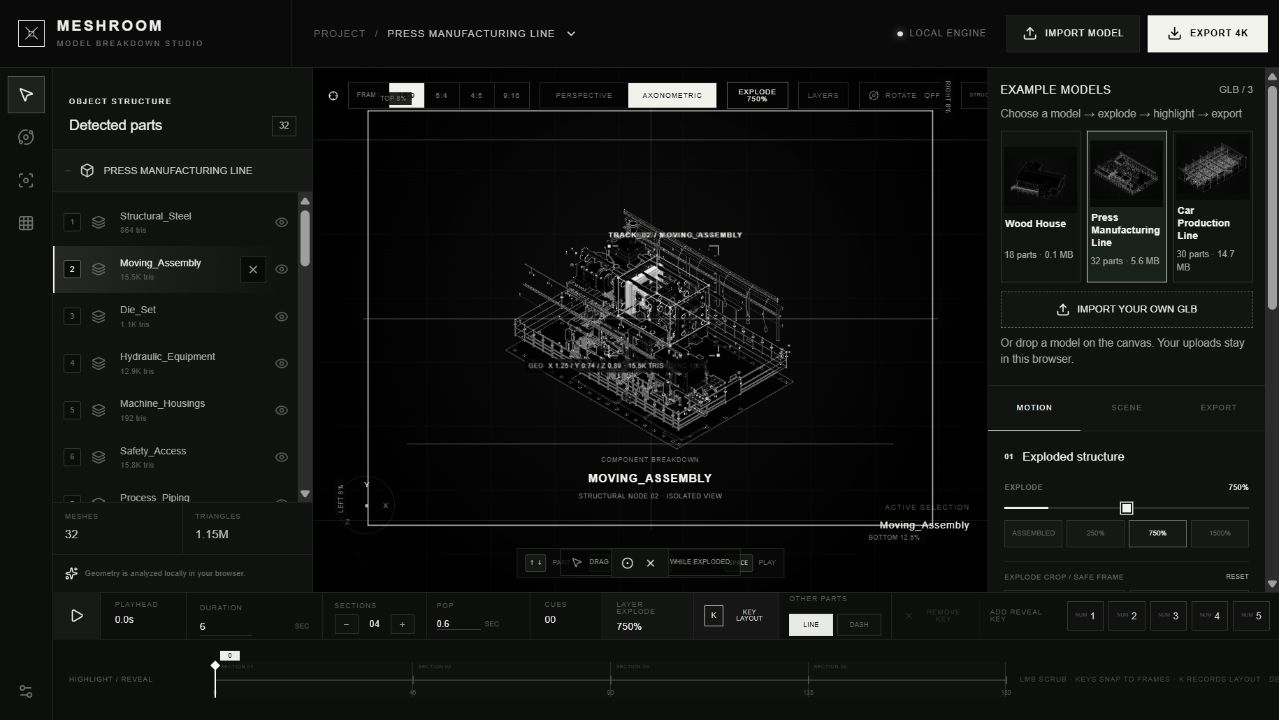
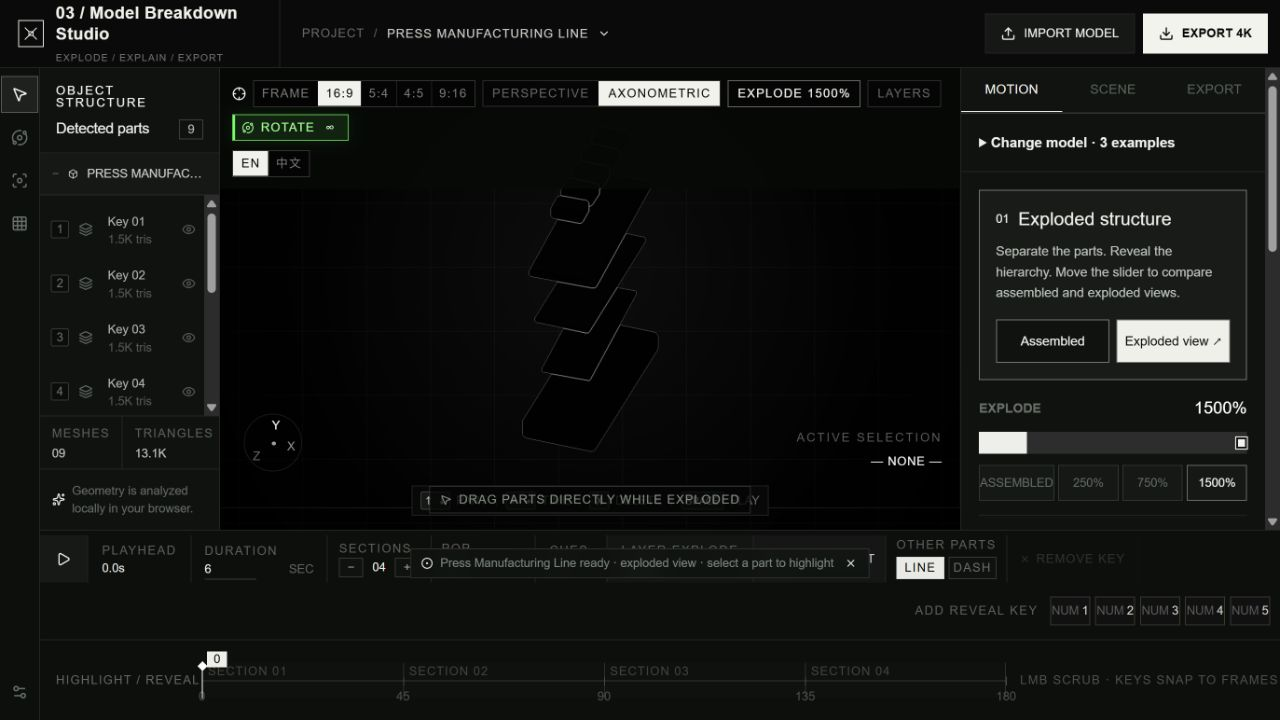
Align Model Breakdown walkthrough with the revised public studio

diff --git a/README.md b/README.md
@@ -2,7 +2,7 @@
 
 **Turn a multi-part GLB into an exploded view, a focused detail and a presentation sequence.**
 
-A browser tool by **Muwen Li**, developed with Codex. The original live app is named **MESHROOM**. Designed for visual explanation in architecture, engineering, construction (AEC) and industrial design: help an audience see which parts matter and how they relate.
+A browser tool by **Muwen Li**, developed with Codex. The public product name is **Model Breakdown Studio** across the app and portfolio. Designed for visual explanation in architecture, engineering, construction (AEC) and industrial design: help an audience see which parts matter and how they relate.
 
 **[Open the interactive app →](https://meshroom-breakdown-studio.limuwen9.chatgpt.site)** · [Product case](docs/product-case.md) · [Selected output films](showcase/README.md) · [Source & MIT scope](#code-and-media-rights) · [All projects](https://github.com/MuwenTriLi/creative-workflows#selected-work)
 
@@ -26,10 +26,11 @@ All four supplied films are represented here. [Open the output gallery and four 
 
 ## Try it in one minute
 
-1. **Choose a model:** the app opens with **Wood House**. The right-hand **EXAMPLE MODELS** cards also load **Press Manufacturing Line** and **Car Production Line**; no account or upload is required.
-2. **Inspect:** choose **250%** or **750%** in **Exploded structure**, then select a named component in the left panel. Compare it with **ASSEMBLED**.
+1. **Choose a model:** the app opens with **Press Manufacturing Line**, already exploded. Open **Change model · 3 examples** for **Wood House** and **Car Production Line**; no account or upload is required.
+2. **Inspect:** use **Assembled** / **Exploded view** or the prominent **Exploded structure** slider, then select a named component in the left panel. Compare it with **ASSEMBLED**.
 3. **Explain:** toggle **ROTATE**, adjust framing and choose the component the viewer should notice. Use the timeline to shape emphasis and motion.
-4. **Bring your model:** choose **IMPORT YOUR OWN GLB** or drop your file onto the canvas. Use separate, meaningfully named mesh parts, then confirm orientation. Your file is processed in the browser. Switching models asks before clearing the current part edits and timeline.
+4. **Review and export:** choose **EXPORT 4K**, review the aspect, duration and frame rate, then choose **RENDER**. Inspect the downloaded MP4. [Complete export guide](https://github.com/MuwenTriLi/creative-workflows/blob/main/docs/studio-delivery.md).
+5. **Bring your model:** choose **IMPORT YOUR OWN GLB** or drop your file onto the canvas. Use separate, meaningfully named mesh parts, then confirm orientation. Your file is processed in the browser. Switching models asks before clearing the current part edits and timeline.
 
 <a href="https://meshroom-breakdown-studio.limuwen9.chatgpt.site"><img src="docs/media/example-library.png" alt="Model Breakdown Studio with the supplied model library, local GLB import and named parts" width="100%"></a>
 
@@ -64,7 +65,7 @@ The product hypothesis is that **hierarchy, exploded composition, highlighting a
 
 My contribution is creative direction and the interaction workflow, developed with Codex-assisted implementation. Professional production experience informed the need for component selection, editable emphasis and a visible review step. The method is **inspect → compose → emphasize → animate → review**. [Full decisions, hypothesis and acceptance criteria](docs/product-case.md).
 
-**Evidence now:** four architectural output films and four stills; a public interactive app; repository source; and a separate hosted technical check using a synthetic three-part GLB that exported a 2 s / 4K / 30 fps H.264 file. The real films were supplied after that test; they are not claimed as newly reproduced exports in this review.
+**Evidence now:** four architectural output films and four stills; a public interactive app; repository source; and two bounded technical checks: a synthetic three-part GLB and the real Press Manufacturing Line each exported a 2 s / 4K / 30 fps H.264 file. The real films were supplied after that test; they are not claimed as newly reproduced exports in this review.
 
 **Next evidence:** a short recording connecting one real GLB to one output, including one local correction. The final visual output is present; the import-to-export process recording is still pending. [Recording outline](showcase/walkthrough.md) · [Model preparation](docs/model-preparation.md).
 
@@ -98,7 +99,7 @@ pnpm build
 pnpm preview --port 4186
 ```
 
-The local adaptation has three procedural samples. Its production build and 17 geometry/sample tests passed. Sample GLB import, orientation, explode/highlight and a two-second 720p H.264 export were checked locally. Separately, the original hosted app completed a three-part synthetic GLB import, orientation, explode/selection and a two-second 4K / 30 fps H.264 export (60 frames, full decode passed). This is a bounded technical check. The supplied Wood House (18 parts), Press Manufacturing Line (32 parts) and Car Production Line (30 parts) now load in the original app, with switching, explode and part selection checked. Full video exports from these three inputs, OBJ/FBX and first-time creator success remain unverified. [Model-library check](docs/example-model-review.md). [Check details and limits](https://github.com/MuwenTriLi/creative-workflows/blob/main/docs/functional-review.md).
+The local adaptation has three procedural samples. Its production build and 17 geometry/sample tests passed. Sample GLB import, orientation, explode/highlight and a two-second 720p H.264 export were checked locally. Separately, the original hosted app completed a three-part synthetic GLB import, orientation, explode/selection and a two-second 4K / 30 fps H.264 export (60 frames, full decode passed). This is a bounded technical check. The supplied Wood House (18 parts), Press Manufacturing Line (32 parts) and Car Production Line (30 parts) now load in the original app, with switching, explode and part selection checked. The current hosted Press Manufacturing Line also completed a two-second 4K / 30 fps H.264 export (60 decoded frames, full decode passed). Full-length exports from the other real inputs, OBJ/FBX and first-time creator success remain unverified. [Model-library check](docs/example-model-review.md). [Check details and limits](https://github.com/MuwenTriLi/creative-workflows/blob/main/docs/functional-review.md).
 
 </details>
 

diff --git a/docs/architecture.md b/docs/architecture.md
@@ -2,7 +2,7 @@
 
 These notes describe the separate local adaptation in this repository. The public [original web app](https://meshroom-breakdown-studio.limuwen9.chatgpt.site) retains its existing interface; the additional sample shelf described below belongs only to the local adaptation.
 
-The original MESHROOM interface layout is retained: component list on the left, 3D viewport in the center, parameters on the right, and timeline below. A compact example shelf sits above the right-side controls. Narrow windows stack the controls rather than hiding them.
+The Model Breakdown Studio interface layout is retained: component list on the left, 3D viewport in the center, parameters on the right, and timeline below. The hosted app exposes three inputs under Change model, above the main explode control. The separate repository adaptation retains its procedural sample shelf. Narrow windows stack the controls rather than hiding them.
 
 React manages interface state. Three.js loads and renders geometry, handles selection and camera controls, and draws the technical outline treatment. `explode-layout.ts` maps layered and manually positioned components into the active camera's safe frame. The timeline stores presentation cues and layout snapshots. WebCodecs and mp4-muxer encode video in the browser.
 
@@ -23,7 +23,7 @@ Procedural examples are serialized into a GLB in memory and passed through the s
 
 Vite produces a static `dist/` directory with relative asset paths. This package does not include the old hosting platform's authentication, database, worker or account configuration. It has no server dependency. It also does not publish itself or enable GitHub Actions or Pages.
 
-The portfolio links to the publicly accessible original MESHROOM site. GitHub Pages has not been enabled for this adaptation.
+The portfolio links to the publicly accessible Model Breakdown Studio site. GitHub Pages has not been enabled for this adaptation.
 
 ## Validation performed
 

diff --git a/docs/example-model-review.md b/docs/example-model-review.md
@@ -4,7 +4,7 @@
 
 ## What is implemented
 
-- The first visit loads Wood House. The right-side library contains three real GLB examples with thumbnails captured from those same models.
+- The first visit loads Press Manufacturing Line at 1500% explode. The collapsible right-side library contains three real GLB examples with thumbnails captured from those same models.
 - Choosing a different model asks before replacing the current part edits and timeline. Cancel retains the current work.
 - Import your own GLB and canvas drag-and-drop use the existing browser-local import route. The creator chooses presentation direction; the app extracts the supplied named meshes.
 - Automatic work: download/decompress, read mesh hierarchy, fit the view and prepare outlines. Creator decisions: model replacement, orientation, framing, explode amount, part emphasis, timing and final export.
@@ -28,7 +28,7 @@ The standalone TypeScript check still reports pre-existing missing Cloudflare wo
 
 ## What this does not prove
 
-This is a bounded functional check on one desktop browser, not a user study or an export-quality certificate. Real-model MP4 export duration, every transition, mobile performance and repeated long editing sessions remain to verify. A fused mesh cannot provide semantic parts that are absent from the input. The software does not certify engineering accuracy or construction feasibility.
+This is a bounded functional check on one desktop browser, not a user study or an export-quality certificate. A two-second Press Manufacturing Line export now passes 3840 × 2160 / H.264 / 30 fps / 60 frames and full decode. Full-length exports, every transition, the other real models, mobile performance and repeated long editing sessions remain to verify. A fused mesh cannot provide semantic parts that are absent from the input. The software does not certify engineering accuracy or construction feasibility.
 
 ## Next creator experiment
 
